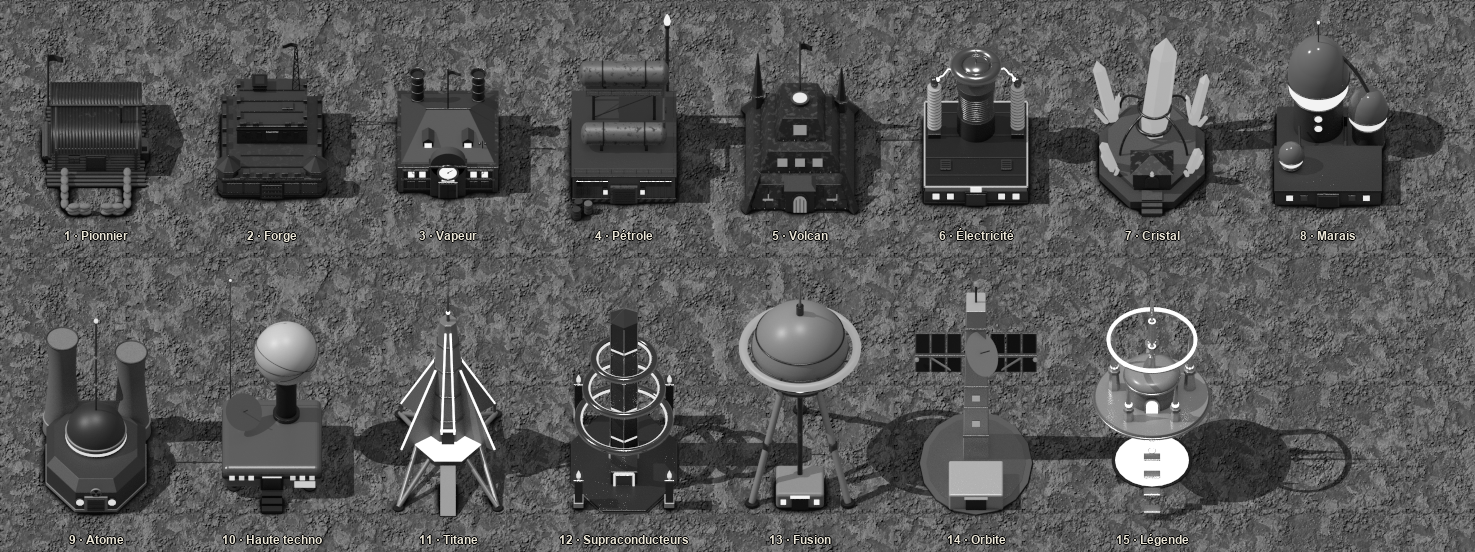
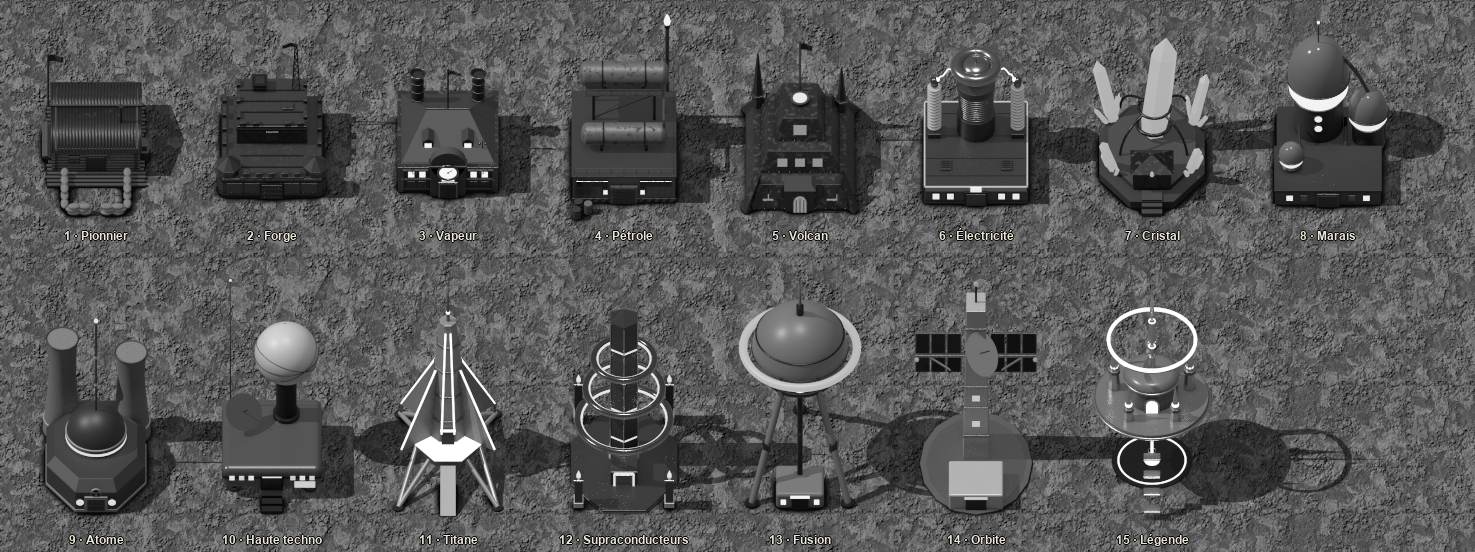
V3-a centre (phase 1) : passe 3 (photométrie recalée, émetteur du palais, lanterne de nuit), planches et mesures finales
Luminance médiane du corps dans la cible ±10 sauf époque 7 (74 pour 55 : cristaux émissifs sur 35 % du
corps) et époque 15 (96 pour 108). Lueur de jour à +93 au moins au-dessus du corps dès l'époque 3.
D1-3 inchangé : IoU(1, 15) = 0,343, normalisée 0,432. Indicateur de dépassements remplacé (proéminence du
profil du haut, approché). Rien n'est vu en jeu ni validé par le Directeur Créatif.

Changed region(s): [[0.7173, 0.6467, 0.8108, 0.8931], [0.6237, 0.2464, 0.6549, 0.2772]]

diff --git a/tools/render/pieces/levels/centre/centre_params.py b/tools/render/pieces/levels/centre/centre_params.py
@@ -58,8 +58,9 @@ def halo_script(e):
 # - fenêtre « src » autour de la source projetée ; fenêtre « sol » à l'aplomb (z = 0), si rsol > 0.
 # Positions identiques à celles des pièces lumineuses de centre_ere*.py (lues par build).
 HALO = {
-    1: [(0.42, 0.50, 0.63, "#FFB060", 7.0, 0.35, 0.9, 1.0, 2.0),
-        (-0.68, 0.45, 0.52, "#FFB060", 2.5, 0.2, 0.6, 0.6, 1.4)],
+    # époque 1 : puissances doublées après la planche de nuit du 21/10 (lanterne à peine visible)
+    1: [(0.42, 0.50, 0.63, "#FFB060", 14.0, 0.35, 0.9, 1.0, 2.0),
+        (-0.68, 0.45, 0.52, "#FFB060", 5.0, 0.2, 0.6, 0.6, 1.4)],
     2: [(0.0, 0.12, 1.16, "#FF6A20", 6.0, 0.4, 1.0, 0.0, 0.0),
         (-1.36, 1.2, 0.54, "#FF6A20", 4.0, 0.3, 0.8, 0.7, 1.5),
         (1.36, 1.2, 0.54, "#FF6A20", 4.0, 0.3, 0.8, 0.7, 1.5),
